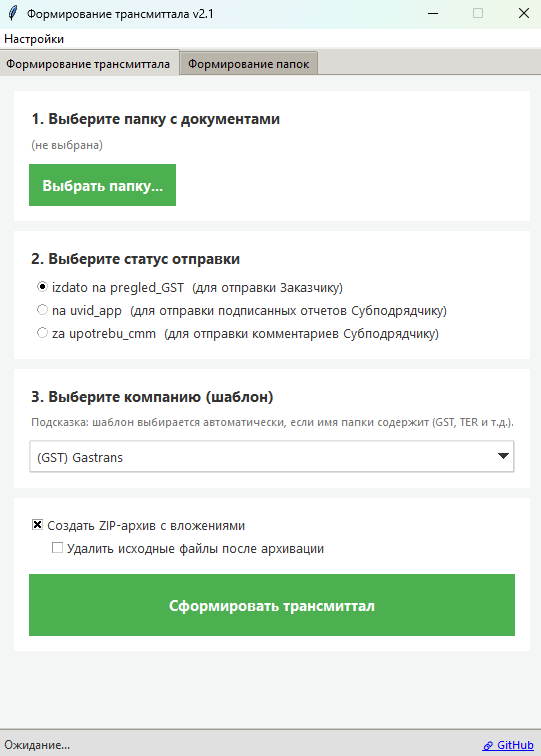
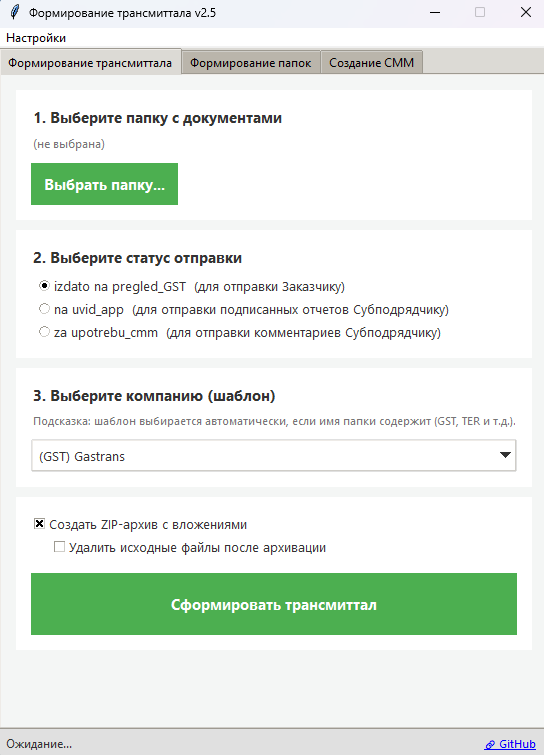
Update README.md with new visual examples and clarify grouping functionality in the "Формирование папок" tab. Update images for better representation of features.

diff --git a/README.md b/README.md
@@ -12,7 +12,7 @@
 - Формирование индексных папок по кодам документов с использованием `index_folder_builder.prepare_index_folders`.
 - CMM comment sheets for CT-DR via template `Template/CommentSheet_Template.xltx`.
 - Поддержка копирования или переноса файлов и группировки выдачи по суффиксам (например, `ENK`, `OST`).
- - На вкладке «Формирование папок»: кликабельные области «Группировка ВКЛЮЧЕНА/ВЫКЛЮЧЕНА» переключают режим; у активной области отображается синяя рамка.
+- На вкладке «Формирование папок»: кликабельные области «Группировка ВКЛЮЧЕНА/ВЫКЛЮЧЕНА» переключают режим; у активной области отображается синяя рамка.
 
 ## Требования и установка
 
@@ -94,9 +94,14 @@ pyinstaller --onefile --windowed --name toir_tra_report_v2.5 --icon=assets/icon_
 
 ## Визуальные примеры
 
-| Формирование трансмиталла               | Выбор шаблона                                         |
+| Формирование трансмиталла               | Формирование папок                               |
 | --------------------------------------------------------------- | ----------------------------------------------------------------- |
 | ![Форма отчёта](assets/image_toir_tra_report_v1_1.png) | ![Выбор шаблона](assets/image_toir_tra_report_v1_2.png) |
+
+| Создание CMM               |                               |
+| --------------------------------------------------------------- | ----------------------------------------------------------------- |
+| ![Форма отчёта](assets/image_toir_tra_report_v1_3.png) |  |
+
 
 ### Вкладка «Формирование папок»: переключение группировки
 
